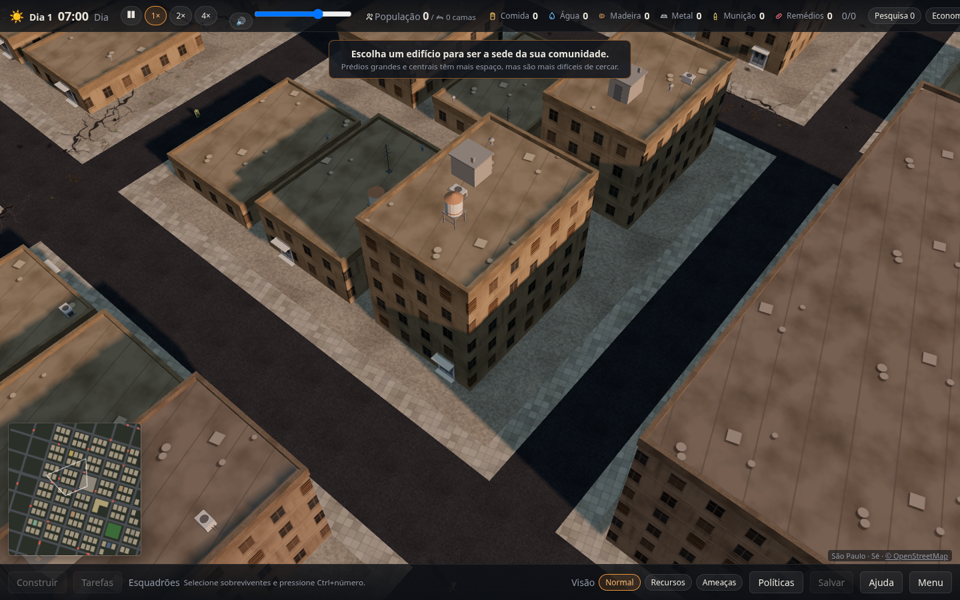
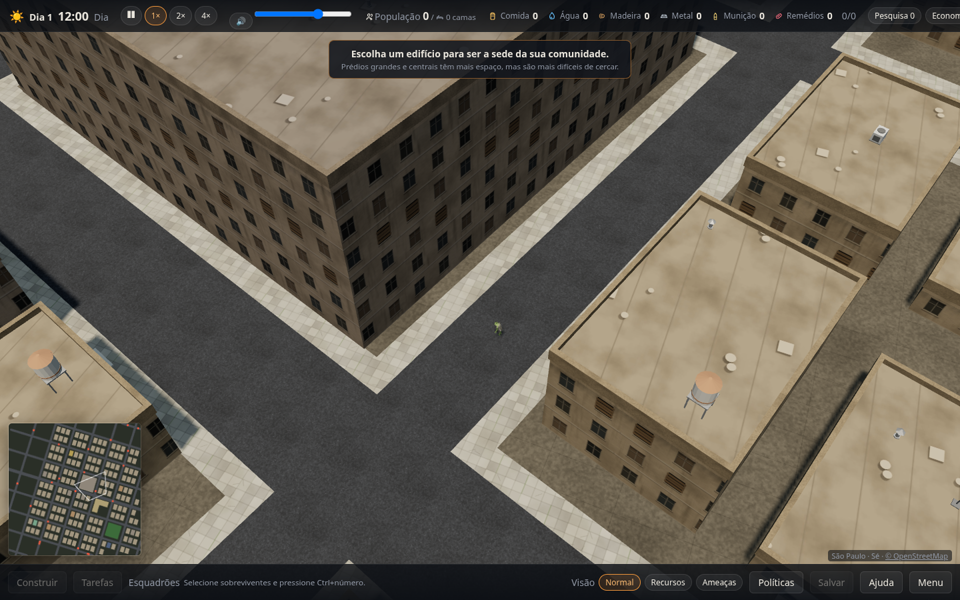
[FIX] renderer: a paved base has to be darker than its sidewalk
Decision 34 paved the base of imported maps and got the material right but the
value wrong: the tint was as light as the sidewalk, so every open lot read as
pavement and a building beside a street looked like a building on top of it.
That is what the third playtest report called "os prédios construídos em cima da rua".

Measured before changing anything, on a live São Paulo import: 13 of 238
buildings touch a road corridor, none with more than 10% of its area inside
one, and exactly one building sits inside another — a tower over its annex,
which is real architecture. The data was not putting buildings on the road.

The base is now clearly darker than the sidewalk. The test pins the
relationship, not a literal colour: the base's luminance must stay under three
quarters of the sidewalk's, so a future tint cannot turn the city into a plaza
again.

Capture: docs/art/osm_ground.png, now at midday so it is about surfaces rather
than about the sun's angle.

diff --git a/packages/renderer/tests/groundImported.test.ts b/packages/renderer/tests/groundImported.test.ts
@@ -1,6 +1,6 @@
 import { describe, expect, it } from "vitest";
 import type { BuildingDef, CityMap, RoadDef } from "@afterfall/world";
-import { buildCityGround, URBAN_GROUND_TINT } from "../src/cityMeshes";
+import { buildCityGround, TEXTURED_TINT, URBAN_GROUND_TINT } from "../src/cityMeshes";
 
 function building(index: number): BuildingDef {
   return {
@@ -64,12 +64,20 @@ describe("ground for imported maps", () => {
     expect(generated.materials.ground.color.getHex()).toBe(0x4a4d40);
   });
 
-  it("paints an imported base with a light, neutral tint", () => {
-    // The concrete map is near neutral; the tint must not colour it green or blue.
+  it("keeps the base neutral, never green or blue", () => {
     const c = URBAN_GROUND_TINT;
     const r = (c >> 16) & 255;
     const g = (c >> 8) & 255;
     const b = c & 255;
     expect(Math.max(r, g, b) - Math.min(r, g, b)).toBeLessThan(20);
+  });
+
+  it("keeps the base darker than the sidewalk, or buildings read as built on the road", () => {
+    // The base started at the sidewalk's own lightness, and every open lot read as
+    // pavement: a screenshot of a building beside a street looked like a building on it.
+    const lum = (hex: number) => 0.2126 * ((hex >> 16) & 255) + 0.7152 * ((hex >> 8) & 255) + 0.0722 * (hex & 255);
+    const base = lum(0x6f6d66) * lum(URBAN_GROUND_TINT);
+    const walk = lum(0x8d897e) * lum(TEXTURED_TINT.blocks);
+    expect(base).toBeLessThan(walk * 0.75);
   });
 });

diff --git a/tests/e2e/osm-ground-shot.spec.ts b/tests/e2e/osm-ground-shot.spec.ts
@@ -29,12 +29,15 @@ test("captures the ground of an imported map", async ({ page }) => {
   const spot = await page.evaluate(() => {
     const g = (window as unknown as Win).__afterfall;
     const c = g.sim.city;
-    const b = c.buildings.find((x: { type: string }) => x.type === "house") ?? c.buildings[0];
-    const cx = b.footprint ? b.footprint.reduce((s: number, p: { x: number }) => s + p.x / b.footprint.length, 0) : b.rect.x;
-    const cy = b.footprint ? b.footprint.reduce((s: number, p: { y: number }) => s + p.y / b.footprint.length, 0) : b.rect.y;
-    g.renderer.rts.jumpTo(cx, cy);
-    g.renderer.rts.goalDistance = 90;
-    g.renderer.rts.distance = 90;
+    // Midday, so the capture is about surfaces rather than about the sun's angle.
+    g.sim.state.tick += 5 * 60 * 10;
+    const b = [...c.buildings].sort((a: { height: number }, x: { height: number }) => x.height - a.height)[0];
+    const pts = b.footprint ?? [{ x: b.rect.x, y: b.rect.y }];
+    const cx = pts.reduce((s: number, p: { x: number }) => s + p.x / pts.length, 0);
+    const cy = pts.reduce((s: number, p: { y: number }) => s + p.y / pts.length, 0);
+    g.renderer.rts.jumpTo(cx + 25, cy + 25);
+    g.renderer.rts.goalDistance = 70;
+    g.renderer.rts.distance = 70;
     g.renderer.rts.yaw = 0.4;
     g.renderer.rts.goalYaw = 0.4;
     return { buildings: c.buildings.length, blocksX: c.blocksX };

diff --git a/packages/renderer/src/cityMeshes.ts b/packages/renderer/src/cityMeshes.ts
@@ -79,8 +79,12 @@ function flatPolygon(poly: { x: number; y: number }[], y: number): THREE.BufferG
  * the bare ground reads a little more yellow; the parks keep white because the
  * grass map is already the park's green.
  */
-/** The paved base of an imported map: concrete under a light, neutral tint. */
-export const URBAN_GROUND_TINT = 0xb9b5ad;
+/**
+ * The base of an imported map: worn ground, clearly darker than the sidewalk that runs
+ * along each street. It started at the sidewalk's own lightness, which made every open
+ * lot read as pavement — buildings looked like they had been built on the road.
+ */
+export const URBAN_GROUND_TINT = 0x77736b;
 
 export const TEXTURED_TINT: Record<keyof GroundMaterials, number> = {
   roads: 0xa7abae,

diff --git a/docs/DECISIONS.md b/docs/DECISIONS.md
@@ -45,3 +45,5 @@
 34. **An imported map is a city, not a lawn.** The ground of every map was the grass map, which is right for a generated city — blocks with sidewalks, grass between them — and wrong for an imported one, which has streets and building footprints and nothing else. A dense neighbourhood therefore rendered as buildings standing on a lawn with thin paved ribbons along the roads, which is what the first playtest video showed. `buildCityGround` now reports whether the map is imported (`blocksX === 0`, the value `cityFromOverpass` writes) and shades its base with the concrete map under a neutral tint; parks keep their grass polygons. The same function used to crash outright on a map with no roads at all, because `mergeGeometries([])` reads `geometries[0].index` without checking — guarded now, and pinned by a test that builds a map with no roads.
 
 35. **A sidewalk sits beside a road, never under it.** Imported streets were drawn as a road ribbon with a wider sidewalk ribbon underneath, five millimetres apart. That is invisible up close and unmaintainable at distance: the two surfaces are coplanar within the depth buffer's precision, so the light ribbon won alternating stripes across the asphalt — regular white dashes on the road that appeared and disappeared as the camera moved, which is what the second playtest video showed. Raising the road and biasing its depth helped, but the overlap was the defect: the sidewalk is now built as two strips beside the carriageway, and a test asserts that no sidewalk vertex falls inside the road's half-width. The base of an imported map has been paved since decision 34, so the strip is a light edge, not the only ground the player sees.
+
+36. **A paved base has to be darker than its sidewalk.** Decision 34 paved the base of imported maps and got the material right but the value wrong: the tint was as light as the sidewalk, so every open lot read as pavement and a building beside a street looked like a building on top of it — which is exactly how the third playtest report phrased it ("os prédios estão sendo construídos até em cima da rua"). Measured before changing anything: on a live São Paulo import, 13 of 238 buildings touch a road corridor, none with more than 10% of its area inside one, and exactly one building sits inside another (a tower over its annex, which is real architecture, not a bug) — so the data was not putting buildings on the road. The base is now clearly darker than the sidewalk, and a test pins the relationship rather than the literal colour: the base's luminance must stay under three quarters of the sidewalk's, so a future tint cannot turn the city back into a plaza.
